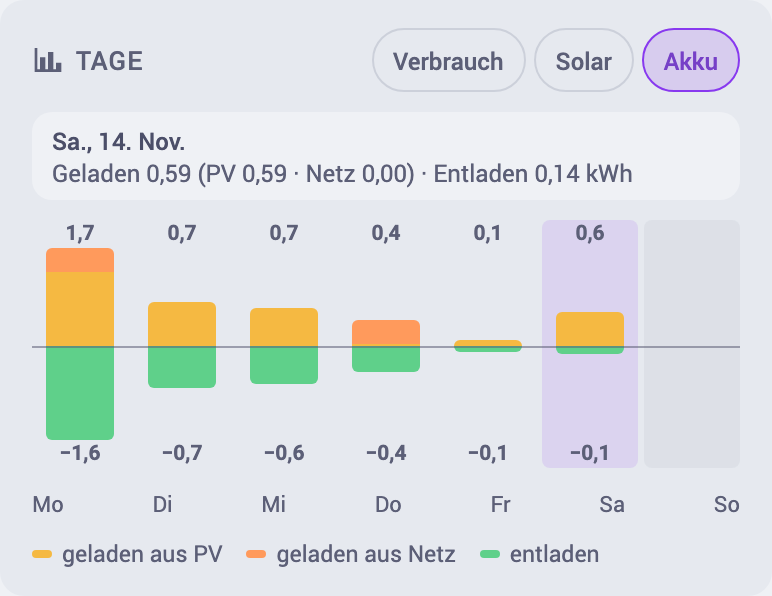
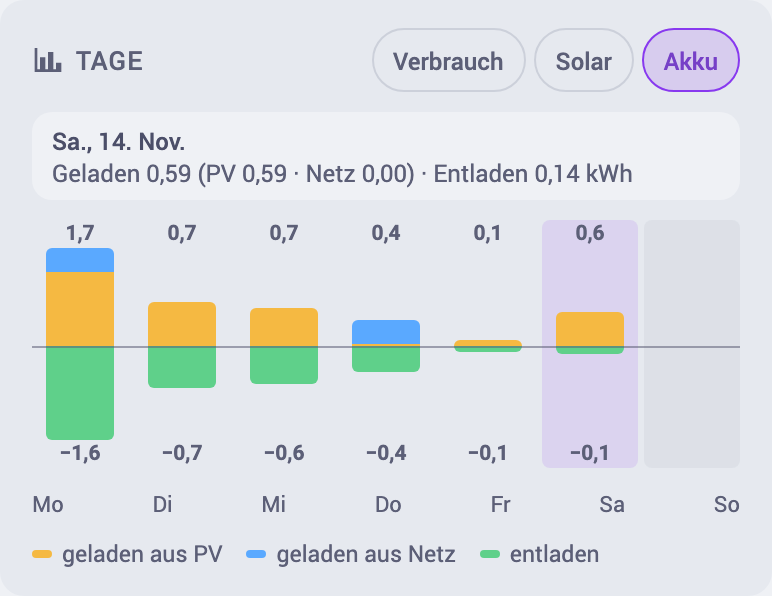
0.1.2: grid charging in blue, finer power chart lines, note on home consumption sensors

Changed region(s): [[0.4352, 0.5134, 0.5596, 0.604], [0.0622, 0.3926, 0.1554, 0.4832], [0.3109, 0.906, 0.342, 0.9362]]

diff --git a/src/charts.js b/src/charts.js
@@ -58,9 +58,9 @@ export function renderPowerChart(data, { t, lang, hidden, ariaRange }) {
     if (!vals || hidden.has(key)) return "";
     const p = pathOf(s.pct ? vals : vals.map((v) => (Number.isFinite(v) ? v / 1000 : v)), x, s.pct ? ys : y);
     if (!p.line) return "";
-    const dash = s.pct ? ' stroke-dasharray="5 3"' : "";
+    const dash = s.pct ? ' stroke-dasharray="4 3"' : "";
     return `<path d="${p.area}" fill="${s.color}" fill-opacity="${s.fill}" stroke="none"/>
-      <path d="${p.line}" fill="none" stroke="${s.color}" stroke-width="${s.pct ? 1.6 : 1.8}"${dash} vector-effect="non-scaling-stroke"/>`;
+      <path d="${p.line}" fill="none" stroke="${s.color}" stroke-width="${s.pct ? 1.1 : 1.2}"${dash} vector-effect="non-scaling-stroke"/>`;
   }).join("");
   const label = fmtNum(pmax, lang, 1);
   return {
@@ -138,7 +138,7 @@ export function renderHistory(units, opts) {
       const up = s
         ? `<div class="stack">${[
             [s.pv_to_battery, "var(--eoc-pv)"],
-            [s.grid_to_battery, "var(--eoc-imp)"],
+            [s.grid_to_battery, "var(--eoc-gridcharge)"],
           ]
             .map(([v, c]) => `<div style="height:${((v / mUp) * upH).toFixed(1)}px;--c:${c}"></div>`)
             .join("")}</div>`

diff --git a/src/styles.js b/src/styles.js
@@ -8,6 +8,7 @@ export const STYLE = `
   --eoc-bat: var(--eoc-battery-color, #5fd08a);
   --eoc-imp: var(--eoc-import-color, #ff9a5c);
   --eoc-exp: var(--eoc-export-color, #5aa9ff);
+  --eoc-gridcharge: var(--eoc-grid-charge-color, #5aa9ff);
   --eoc-house: var(--eoc-house-color, #cba6f7);
   --eoc-fc: var(--eoc-forecast-color, #94e2d5);
   --eoc-night: var(--eoc-night-color, rgba(180, 190, 254, 0.11));

diff --git a/src/flow.js b/src/flow.js
@@ -39,7 +39,7 @@ const COLORS = {
   solar_battery: "var(--eoc-pv)",
   grid_house: "var(--eoc-imp)",
   battery_house: "var(--eoc-bat)",
-  grid_battery: "var(--eoc-imp)",
+  grid_battery: "var(--eoc-gridcharge)",
 };
 
 /** Animation period: 1.6 s at the threshold, down to 0.4 s from 2 kW. */

diff --git a/src/sections.js b/src/sections.js
@@ -254,7 +254,7 @@ export function history(ctx) {
     ],
     battery: [
       ["charged_pv", "var(--eoc-pv)"],
-      ["charged_grid", "var(--eoc-imp)"],
+      ["charged_grid", "var(--eoc-gridcharge)"],
       ["discharged", "var(--eoc-bat)"],
     ],
   }[state.mode].slice();

diff --git a/src/popup.js b/src/popup.js
@@ -15,6 +15,7 @@ const THEME_VARS = [
   "--eoc-battery-color",
   "--eoc-import-color",
   "--eoc-export-color",
+  "--eoc-grid-charge-color",
   "--eoc-house-color",
   "--eoc-forecast-color",
   "--eoc-night-color",

diff --git a/README.md b/README.md
@@ -57,6 +57,12 @@ Aufbau und Look orientieren sich an den Karten von [juju35](https://github.com/j
 | Solar-Prognose im Energie-Dashboard (z. B. [Forecast.Solar](https://www.home-assistant.io/integrations/forecast_solar/)) | Prognose heute | optional |
 | Ein Energie-Sensor für die Akkuladung **aus dem Netz** | Aufteilung der Ladung in PV / Netz | optional |
 
+> [!IMPORTANT]
+> **Hausverbrauch nur, wenn er wirklich nur das Haus misst.** Viele selbst gebaute „Verbrauch“-Sensoren rechnen
+> Netzbezug + PV und zählen dabei die **Akkuladung aus dem Netz** als Hausverbrauch mit. Dann geht der Fluss nicht auf
+> (Netz + PV ≠ Haus + Akku) und die Netzladung steht im Verlauf doppelt. Im Zweifel `house_power_entity` und
+> `consumption_stat` weglassen – die Karte rechnet den Hausverbrauch dann aus der Bilanz, und alles geht auf.
+
 Fehlt eine Entity, ist sie `unavailable` oder gibt es keine Statistik, blendet die Karte den Wert oder Abschnitt aus
 bzw. zeigt „–“ – sie bricht nie komplett.
 
@@ -115,12 +121,11 @@ type: custom:energy-overview-card
 name: Energie
 subtitle: Balkonkraftwerk · Solarbank 2 E1600 AC
 solar_power_entity: sensor.pv_power_from_solar
-grid_power_entity: sensor.netzleistung_kombiniert
+grid_import_power_entity: sensor.pv_power_from_grid
+grid_export_power_entity: sensor.einspeisung_positiv
 battery_power_entity: sensor.solarbank_2_e1600_ac_akkuleistung
-house_power_entity: sensor.stromverbrauch_gesamt_real
 soc_entity: sensor.pv_batterie_soc
 capacity_kwh: 1.6
-consumption_stat: sensor.stromverbrauch_gesamt_real_daily
 battery_grid_charge_stat: sensor.akkuladung_von_netz_energy_daily
 forecast_today_entity: sensor.energy_production_today
 ```
@@ -168,7 +173,7 @@ die addiert wird:
 | `language` | `de` / `en` | Sprache von Home Assistant |
 
 **Farben** lassen sich per Theme oder `card_mod` über CSS-Variablen ändern: `--eoc-pv-color` (#f5b942),
-`--eoc-battery-color` (#5fd08a), `--eoc-import-color` (#ff9a5c), `--eoc-export-color` (#5aa9ff),
+`--eoc-battery-color` (#5fd08a), `--eoc-import-color` (#ff9a5c), `--eoc-export-color` (#5aa9ff), `--eoc-grid-charge-color` (#5aa9ff, Netz lädt Akku),
 `--eoc-house-color` (#cba6f7), `--eoc-forecast-color` (#94e2d5), `--eoc-night-color` (rgba(180,190,254,.11)),
 `--eoc-night-icon-color` (#b4befe), `--eoc-accent-color` (Standard: `--primary-color`). Alles andere kommt aus dem Theme.
 
@@ -222,6 +227,10 @@ A Lovelace card for a **PV system with a home battery**: live energy flow, balan
 export), self-sufficiency, self-consumption and CO₂ saved; the day's power chart with a crosshair; and a history of
 consumption (with night blocks), solar (with today's forecast) and battery (charge up, discharge down, state-of-charge
 line). **Not included:** control logic, costs and tariffs.
+
+**Home consumption:** only set `house_power_entity` / `consumption_stat` when the sensor measures the home alone.
+Sensors built as grid import + PV often count battery charging from the grid as home consumption; then the flow does
+not add up. Leave both out and the card takes the home from the balance.
 
 **You need:** Home Assistant 2024.8+ and the **Energy dashboard** set up (or your own energy sensors with statistics).
 Power sensors, a state-of-charge sensor and the battery capacity are recommended; without power sensors the card uses

diff --git a/CHANGELOG.md b/CHANGELOG.md
@@ -1,5 +1,13 @@
 # Changelog
 
+## 0.1.2 (2026-11-15)
+
+- Grid charging the battery is drawn in blue (flow, battery history, legend) with its own variable
+  `--eoc-grid-charge-color`; battery → home stays green
+- README: a home consumption sensor that counts battery charging from the grid breaks the balance – leave
+  `house_power_entity` / `consumption_stat` out then; example config updated
+- Test: the live flow adds up (grid + PV = home + battery) when the home comes from the balance
+
 ## 0.1.1 (2026-11-15)
 
 - Look aligned with the Proxmox and Tibber cards: round 40 px logo in the status colour with an MDI icon, status
